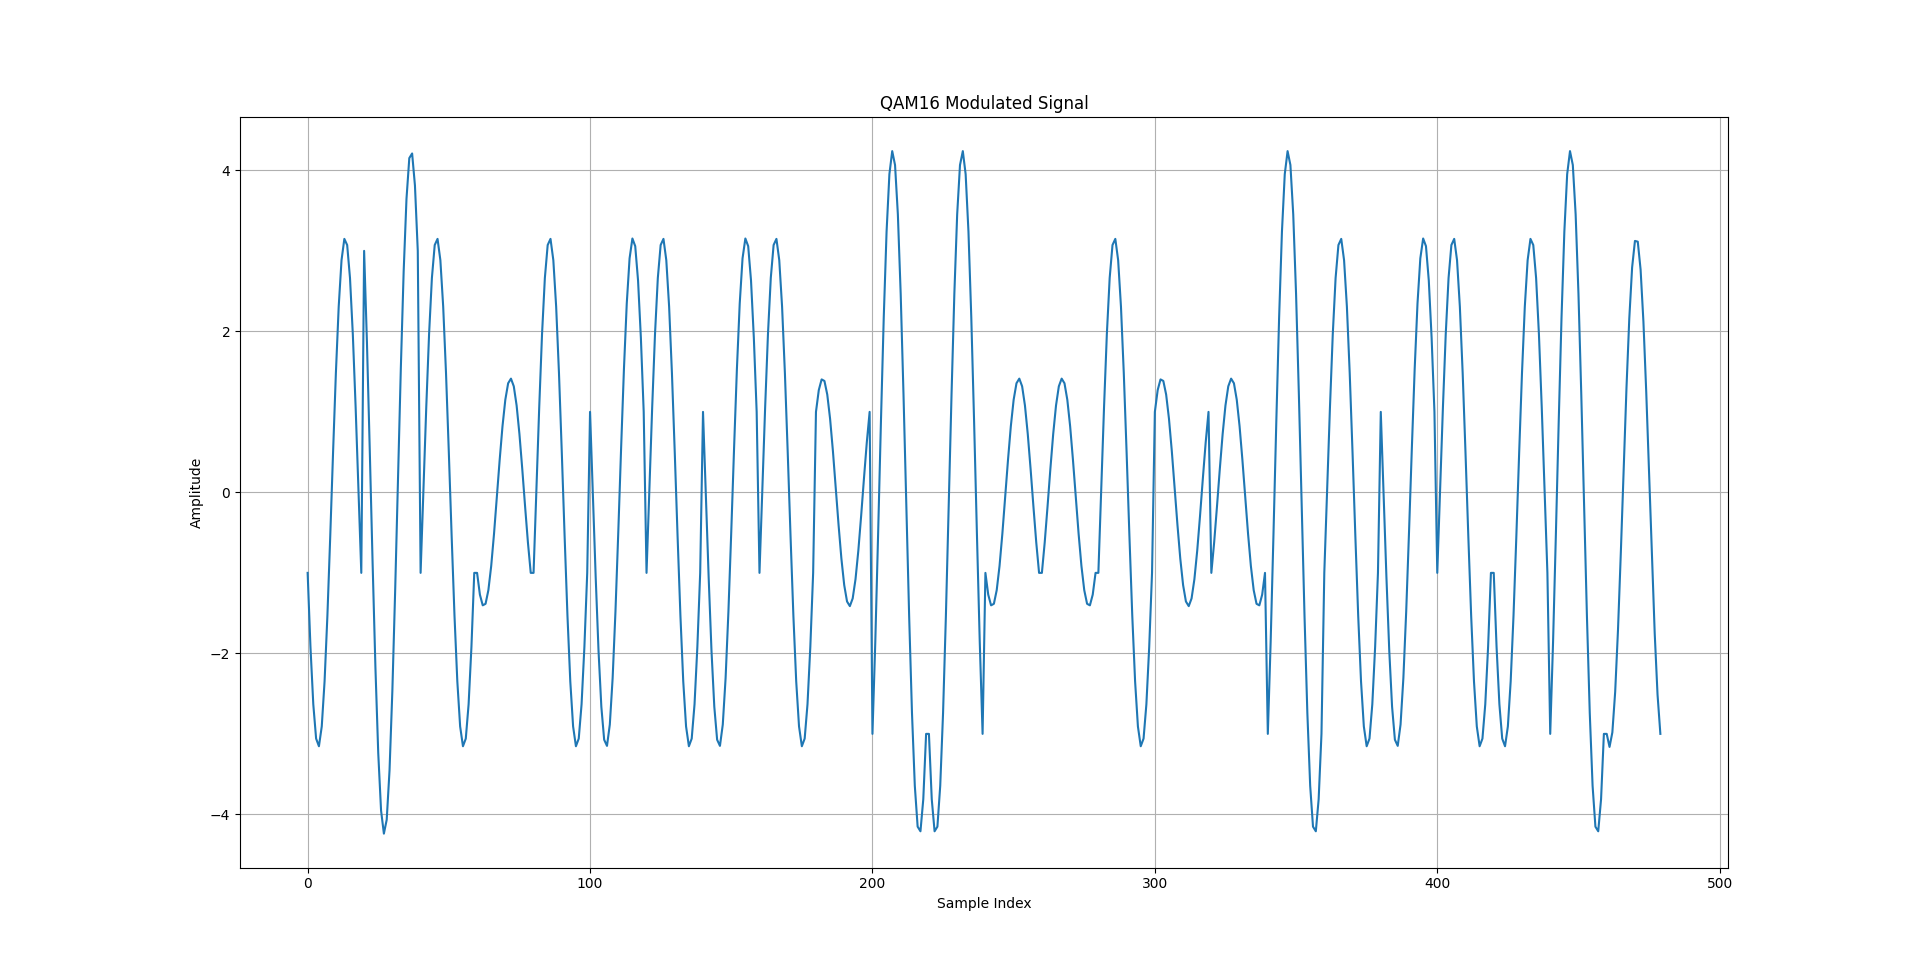
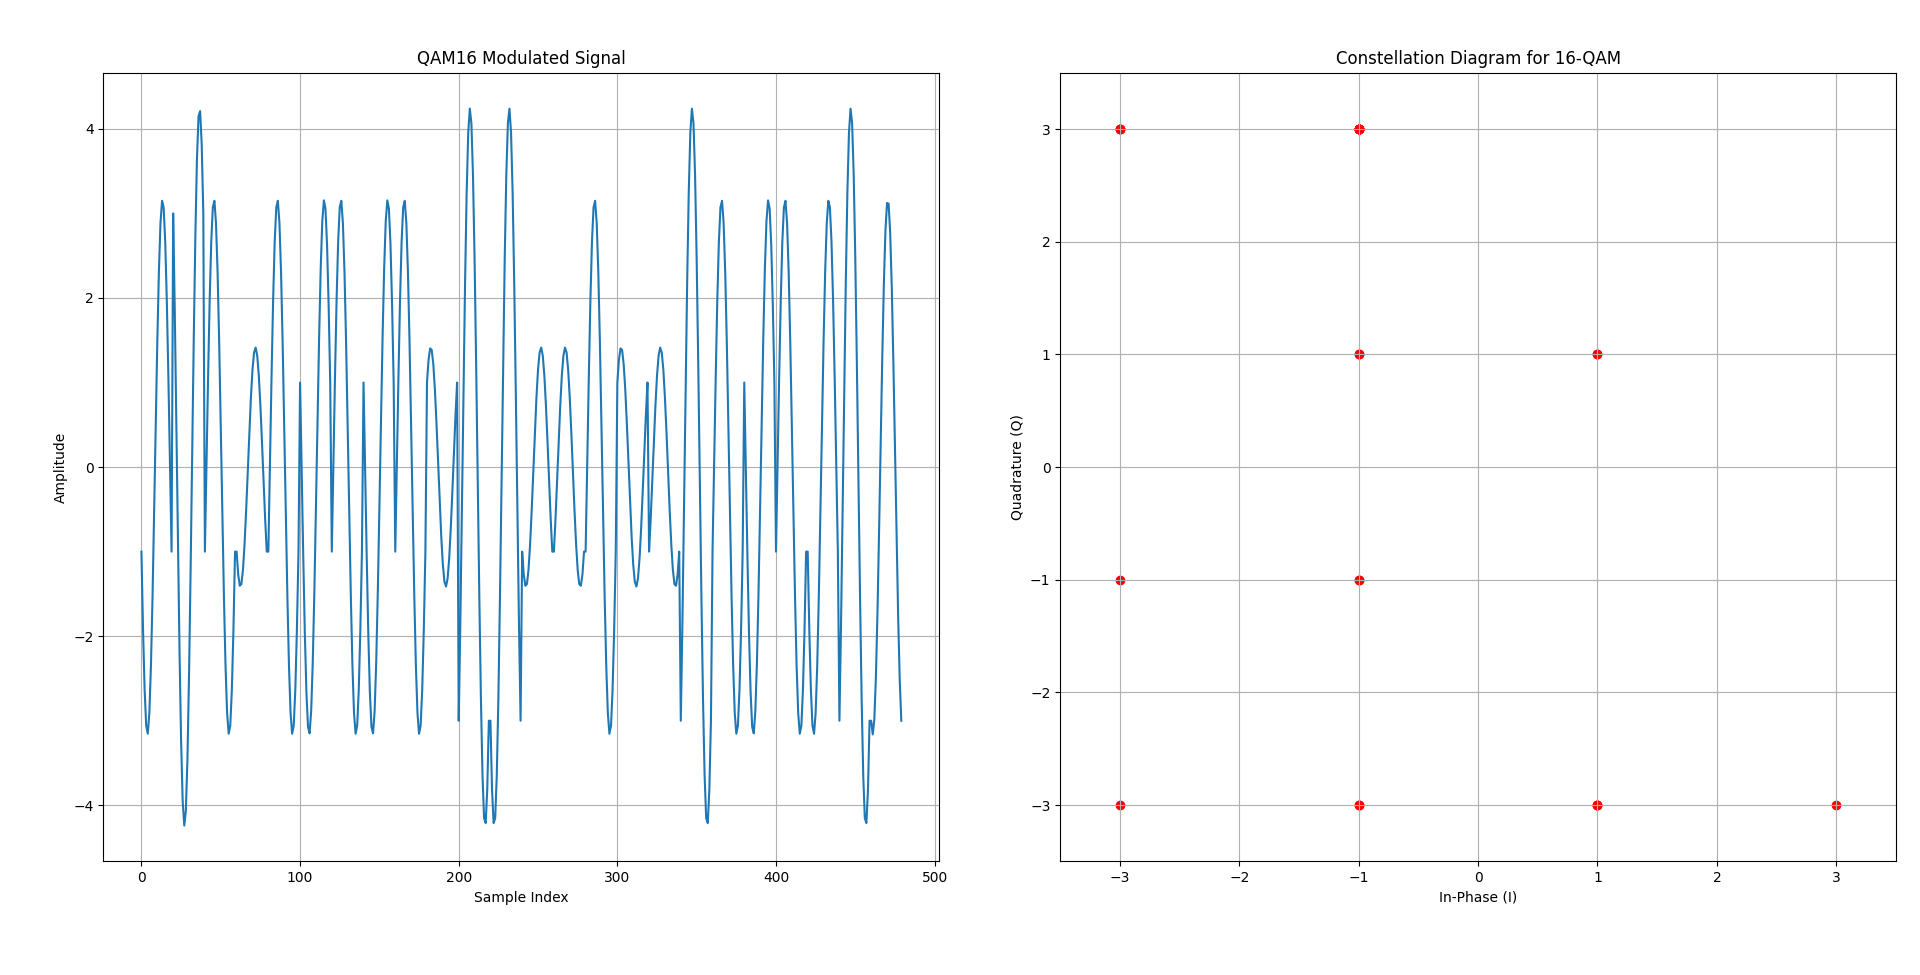
Add Constellation Diagram for QAM Modulation
With these changes, users can now visualize the constellation diagram for QAM, providing an intuitive understanding of the symbol mapping in the modulation process.

diff --git a/QAM4.py b/QAM4.py
@@ -12,6 +12,8 @@ def text_to_binary(text):
 def qam_modulate(binary_message, carrier_frequency, symbol_duration, sampling_rate):
     t = np.linspace(0, symbol_duration, SAMPLES_PER_SYMBOL)
     modulated_signal = np.zeros(len(binary_message) // 2 * SAMPLES_PER_SYMBOL)
+    I = []
+    Q = []
     
     for i in range(0, len(binary_message), 2):
         symbol = binary_message[i:i+2]
@@ -24,12 +26,15 @@ def qam_modulate(binary_message, carrier_frequency, symbol_duration, sampling_ra
         elif symbol == "11":
             symbol_value = complex(-1, -1)
         
+        I.append(symbol_value.real)
+        Q.append(symbol_value.imag)
+        
         for j in range(SAMPLES_PER_SYMBOL):
             carrier_i = np.cos(2 * np.pi * carrier_frequency * t[j])
             carrier_q = np.sin(2 * np.pi * carrier_frequency * t[j])
             modulated_signal[i // 2 * SAMPLES_PER_SYMBOL + j] = symbol_value.real * carrier_i + symbol_value.imag * carrier_q
             
-    return modulated_signal
+    return modulated_signal, I, Q
 
 def main():
     message = input("Enter the message you'd like to modulate: ")
@@ -39,14 +44,29 @@ def main():
     symbol_duration = 1.0
     sampling_rate = SAMPLES_PER_SYMBOL
 
-    modulated_signal = qam_modulate(binary_message, carrier_frequency, symbol_duration, sampling_rate)
+    modulated_signal, I, Q = qam_modulate(binary_message, carrier_frequency, symbol_duration, sampling_rate)
 
     # Plot the modulated signal
+    plt.figure(figsize=(12, 5))
+    
+    plt.subplot(1, 2, 1)
     plt.plot(modulated_signal)
     plt.xlabel('Sample Index')
     plt.ylabel('Amplitude')
     plt.title('QAM Modulated Signal')
     plt.grid(True)
+    
+    # Plot the constellation diagram
+    plt.subplot(1, 2, 2)
+    plt.scatter(I, Q, color='red')
+    plt.xlim(-1.5, 1.5)
+    plt.ylim(-1.5, 1.5)
+    plt.xlabel('In-Phase (I)')
+    plt.ylabel('Quadrature (Q)')
+    plt.title('Constellation Diagram')
+    plt.grid(True)
+    plt.tight_layout()
+    
     plt.show()
 
 if __name__ == "__main__":

diff --git a/QAM16.py b/QAM16.py
@@ -33,17 +33,22 @@ def get_qam16_symbol(symbol):
 def qam16_modulate(binary_message, carrier_frequency, symbol_duration, sampling_rate):
     t = np.linspace(0, symbol_duration, SAMPLES_PER_SYMBOL)
     modulated_signal = np.zeros(len(binary_message) // 4 * SAMPLES_PER_SYMBOL)
+    I = []
+    Q = []
     
     for i in range(0, len(binary_message), 4):
         symbol = binary_message[i:i+4]
         symbol_value = get_qam16_symbol(symbol)
+        
+        I.append(symbol_value.real)
+        Q.append(symbol_value.imag)
         
         for j in range(SAMPLES_PER_SYMBOL):
             carrier_i = np.cos(2 * np.pi * carrier_frequency * t[j])
             carrier_q = np.sin(2 * np.pi * carrier_frequency * t[j])
             modulated_signal[i // 4 * SAMPLES_PER_SYMBOL + j] = symbol_value.real * carrier_i + symbol_value.imag * carrier_q
             
-    return modulated_signal
+    return modulated_signal, I, Q
 
 def main():
     message = input("Enter the message you'd like to modulate: ")
@@ -53,14 +58,29 @@ def main():
     symbol_duration = 1.0
     sampling_rate = SAMPLES_PER_SYMBOL
 
-    modulated_signal = qam16_modulate(binary_message, carrier_frequency, symbol_duration, sampling_rate)
+    modulated_signal, I, Q = qam16_modulate(binary_message, carrier_frequency, symbol_duration, sampling_rate)
 
     # Plot the modulated signal
+    plt.figure(figsize=(12, 5))
+    
+    plt.subplot(1, 2, 1)
     plt.plot(modulated_signal)
     plt.xlabel('Sample Index')
     plt.ylabel('Amplitude')
     plt.title('QAM16 Modulated Signal')
     plt.grid(True)
+    
+    # Plot the constellation diagram
+    plt.subplot(1, 2, 2)
+    plt.scatter(I, Q, color='red')
+    plt.xlim(-3.5, 3.5)
+    plt.ylim(-3.5, 3.5)
+    plt.xlabel('In-Phase (I)')
+    plt.ylabel('Quadrature (Q)')
+    plt.title('Constellation Diagram for 16-QAM')
+    plt.grid(True)
+    plt.tight_layout()
+    
     plt.show()
 
 if __name__ == "__main__":
